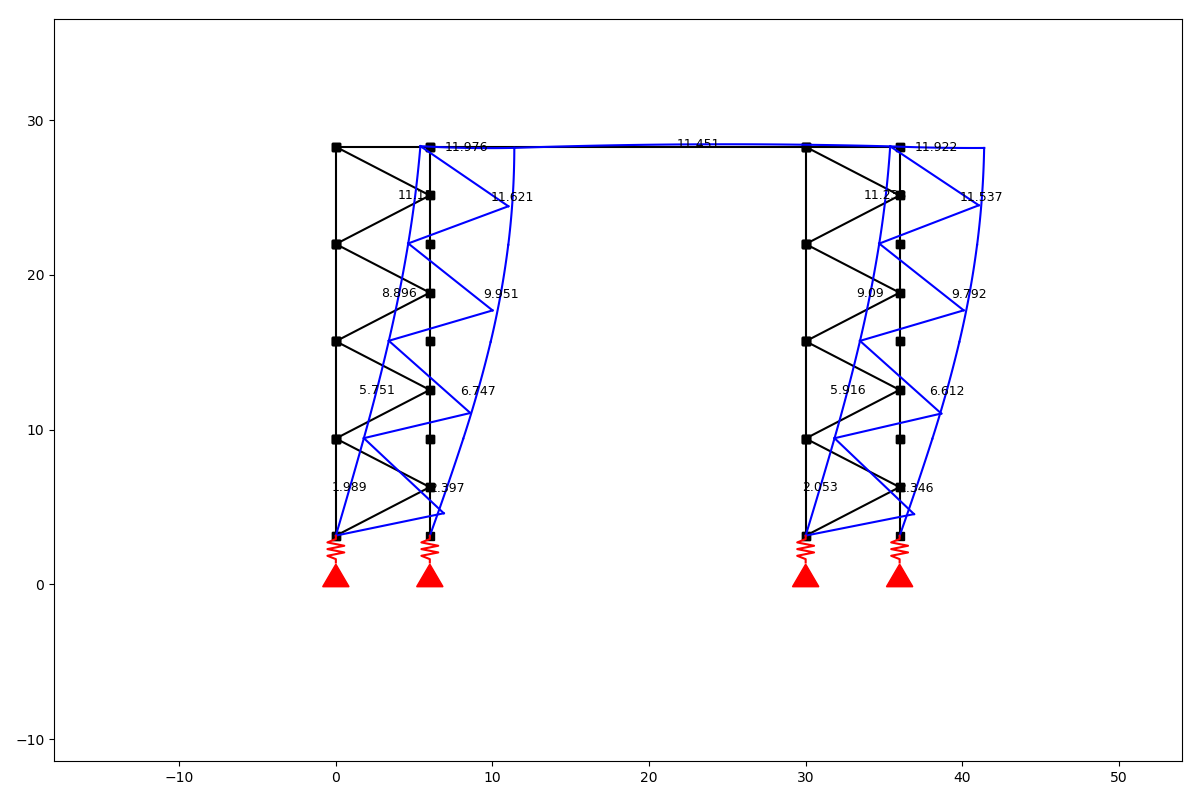
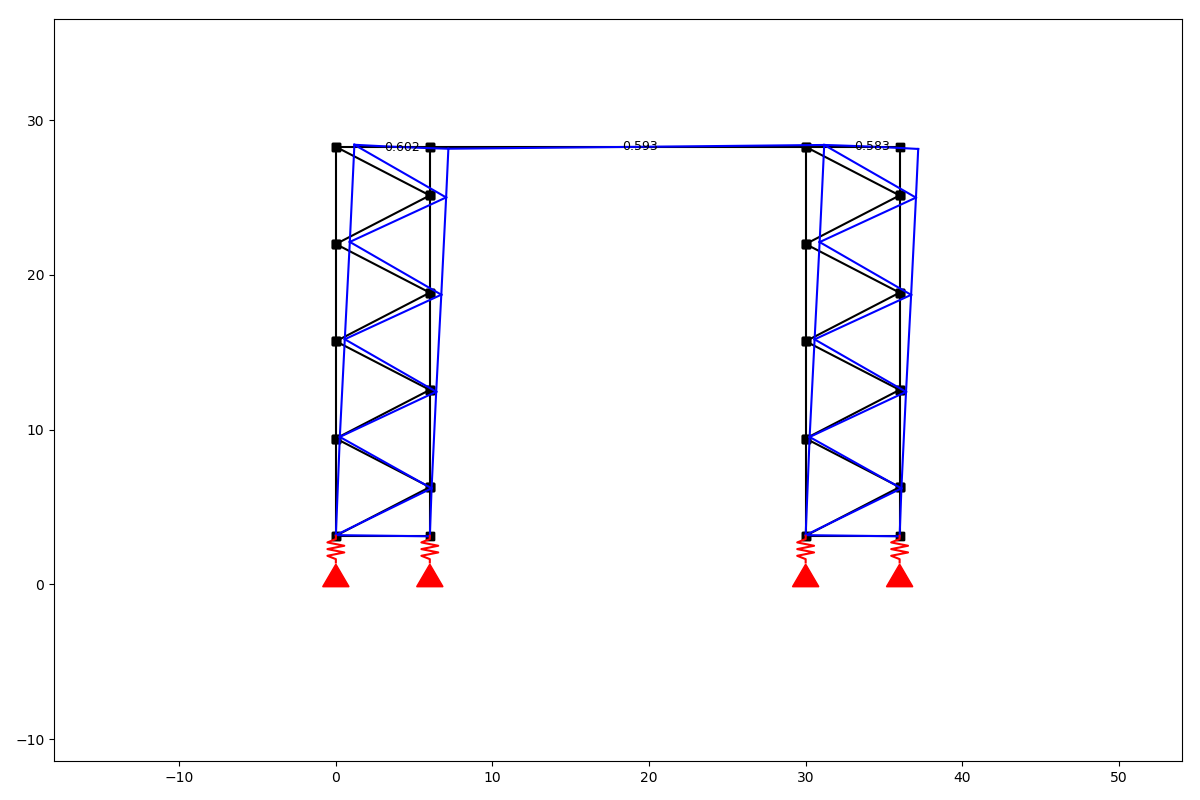
handling of q-loads on truss elements

Changed region(s): [[0.6475, 0.1562, 0.8325, 0.6875], [0.2775, 0.1562, 0.4317, 0.6875], [0.4317, 0.1562, 0.6783, 0.1875]]

diff --git a/anastruct/fem/system.py b/anastruct/fem/system.py
@@ -111,9 +111,9 @@ class SystemElements:
 
         :param x: (list/ np.array) x coordinates.
         :param y: (list/ np.array) y coordinates.
-        :param EA: See 'add_element' method
-        :param EI: See 'add_element' method
-        :param g: See 'add_element' method
+        :param EA: (list/ np.array) See 'add_element' method
+        :param EI: (list/ np.array) See 'add_element' method
+        :param g: (list/ np.array) See 'add_element' method
         :param mp: See 'add_element' method
         :param spring: See 'add_element' method
         :paramg **kwargs: See 'add_element' method
@@ -126,6 +126,10 @@ class SystemElements:
             EI = a * self.EI
         if g is None:
             g = a * 0
+        # cast to array if parameters are not given as array.
+        EA = EA * a
+        EI = EI * a
+        g = g * a
 
         for i in range(len(x) - 1):
             self.add_element([[x[i], y[i]], [x[i + 1], y[i + 1]]], EA[i], EI[i], g[i], mp, spring, **kwargs)
@@ -150,7 +154,7 @@ class SystemElements:
         :param EA: (flt) EA
         :return: (int) Elements ID.
         """
-        return self.add_element(location, EA, 1e-14, element_type='truss')
+        return self.add_element(location, EA, element_type='truss')
 
     def add_element(self, location, EA=None, EI=None, g=0, mp=None, spring=None, **kwargs):
         """
@@ -198,6 +202,9 @@ class SystemElements:
 
         EA = self.EA if EA is None else EA
         EI = self.EI if EI is None else EI
+
+        if element_type == 'truss':
+            EI = 1e-14
 
         # add the element number
         self.count += 1
@@ -392,7 +399,7 @@ class SystemElements:
 
         if not naked:
             if not self.validate():
-                if any(['general' in element.type for element in self.element_map.values()]):
+                if all(['general' in element.type for element in self.element_map.values()]):
                     raise FEMException('StabilityError', 'The eigenvalues of the stiffness matrix are non zero, '
                                                          'which indicates a instable structure. '
                                                          'Check your support conditions')

diff --git a/anastruct/fem/system_components/assembly.py b/anastruct/fem/system_components/assembly.py
@@ -69,6 +69,10 @@ def apply_perpendicular_q_load(system):
         rleft_z = rleft * math.cos(element.ai)
         rright_z = rright * math.cos(element.ai)
 
+        if element.type == 'truss':
+            left_moment = 0
+            right_moment = 0
+
         primary_force = np.array([rleft_x, rleft_z, left_moment, rright_x, rright_z, right_moment])
         element.element_primary_force_vector -= primary_force
 

diff --git a/doc/source/examples.rst b/doc/source/examples.rst
@@ -54,11 +54,14 @@ Intermediate
     x -= x.min()
 
     for length in [0, span]:
-        ss.add_element_grid(x + length, y, element_type=element_type)
         x_left_column = np.ones(y[::2].shape) * x.min() + length
-        x_right_column = np.ones(y[::2].shape) * x.max() + length
-        ss.add_element_grid(x_left_column, y[::2])
-        ss.add_element_grid(x_right_column, y[::2])
+        x_right_column = np.ones(y[::2].shape[0] + 1) * x.max() + length
+
+        # add triangles
+        ss.add_element_grid(x + length, y, element_type=element_type)
+        # add vertical elements
+        ss.add_element_grid(x_left_column, y[::2], element_type=element_type)
+        ss.add_element_grid(x_right_column, np.r_[y[0], y[1::2], y[-1]], element_type=element_type)
 
         ss.add_support_spring(
             node_id=ss.find_node_id(vertex=[x_left_column[0], y[0]]),
@@ -70,9 +73,14 @@ Intermediate
             k=k)
 
     # add top girder
-    ss.add_element_grid([0, width, span, span + width], np.ones(4) * y.max())
+    ss.add_element_grid([0, width, span, span + width], np.ones(4) * y.max(), EI=10e3)
+
+    # Add stability elements at the bottom.
+    ss.add_truss_element([[0, y.min()], [width, y.min()]])
+    ss.add_truss_element([[span, y.min()], [span + width, y.min()]])
 
     for el in ss.element_map.values():
+        # apply wind load on elements that are vertical
         if np.isclose(np.sin(el.ai), 1):
             ss.q_load(
                 q=1,
@@ -82,11 +90,14 @@ Intermediate
 
     ss.show_structure()
     ss.solve()
-    ss.show_displacement()
+    ss.show_displacement(factor=2)
+    ss.show_bending_moment()
 
 .. image:: img/examples/tower_bridge_struct.png
 
 .. image:: img/examples/tower_bridge_displa.png
+
+.. image:: img/examples/tower_bridge_moment.png
 
 Advanced
 #########

diff --git a/README.md b/README.md
@@ -63,11 +63,14 @@ x = np.cos(y) * width * 0.5
 x -= x.min()
 
 for length in [0, span]:
-    ss.add_element_grid(x + length, y, element_type=element_type)
     x_left_column = np.ones(y[::2].shape) * x.min() + length
-    x_right_column = np.ones(y[::2].shape) * x.max() + length
-    ss.add_element_grid(x_left_column, y[::2])
-    ss.add_element_grid(x_right_column, y[::2])
+    x_right_column = np.ones(y[::2].shape[0] + 1) * x.max() + length
+
+    # add triangles
+    ss.add_element_grid(x + length, y, element_type=element_type)
+    # add vertical elements
+    ss.add_element_grid(x_left_column, y[::2], element_type=element_type)
+    ss.add_element_grid(x_right_column, np.r_[y[0], y[1::2], y[-1]], element_type=element_type)
 
     ss.add_support_spring(
         node_id=ss.find_node_id(vertex=[x_left_column[0], y[0]]),
@@ -79,7 +82,11 @@ for length in [0, span]:
         k=k)
 
 # add top girder
-ss.add_element_grid([0, width, span, span + width], np.ones(4) * y.max())
+ss.add_element_grid([0, width, span, span + width], np.ones(4) * y.max(), EI=10e3)
+
+# Add stability elements at the bottom.
+ss.add_truss_element([[0, y.min()], [width, y.min()]])
+ss.add_truss_element([[span, y.min()], [span + width, y.min()]])
 
 for el in ss.element_map.values():
     # apply wind load on elements that are vertical
@@ -92,13 +99,17 @@ for el in ss.element_map.values():
 
 ss.show_structure()
 ss.solve()
-ss.show_displacement()
+ss.show_displacement(factor=2)
+ss.show_bending_moment()
 
 ```
 
 ![](doc/source/img/examples/tower_bridge_struct.png)
 
 ![](doc/source/img/examples/tower_bridge_displa.png)
+
+![](doc/source/img/examples/tower_bridge_moment.png)
+
 
 ```python
 from anastruct import SystemElements
